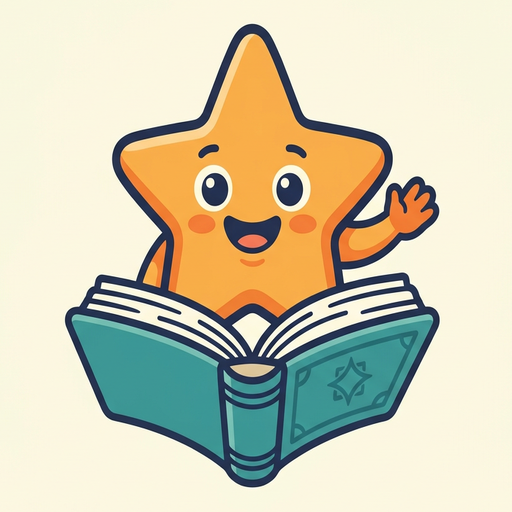
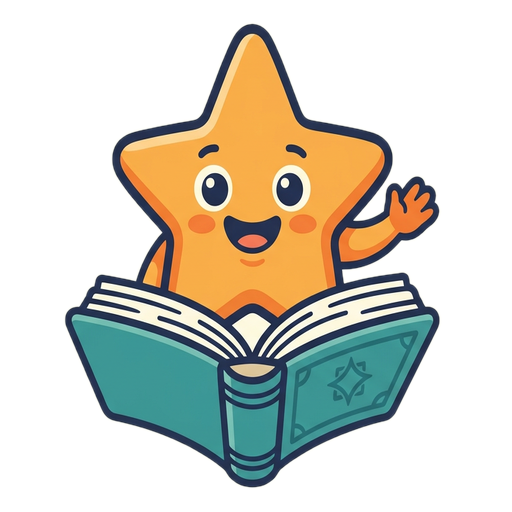
Fix Twinkle right-edge clipping + cream square background (owner live check 2026-11-07)\n\nTwo defects from the 19:06 PKT homepage live check of push 6a110b1e:\n\n1. RIGHT-EDGE CLIPPING: at right-edge anchors the mascot was partly cut off and the helper panel ran past the right edge (it read truncat

diff --git a/src/components/home/v0/HelperMascot.tsx b/src/components/home/v0/HelperMascot.tsx
@@ -1,6 +1,7 @@
 'use client'
 
 import { useEffect, useRef, useState } from 'react'
+import type { CSSProperties } from 'react'
 import { usePathname } from 'next/navigation'
 import Image from 'next/image'
 import Link from 'next/link'
@@ -13,24 +14,30 @@ import {
   MASCOT_WANDER_MS,
   isPlayPath,
   pickNextAnchor,
+  popupPlacement,
   type MascotAnchor,
 } from '@/lib/mascot'
 
 // Twinkle — EduPlay's helper star. The art is the ORIGINAL orange star
 // + teal book portrait (/eduplay-mascot.png, V0 ZIP #2 port, cropped to
 // 512×512) — the cute one the owner picked; the inline-SVG character
-// from the Twinkle upgrade looked odd and is gone.
+// from the Twinkle upgrade looked odd and is gone. The PNG's cream
+// background was cleaned to real transparency (2026-11-07), so the star
+// and book stand on ANY page colour with no square tile — no blend mode.
 // The mascot is FREE on the screen, not locked in a little circle: the
 // button is the picture itself (up to 128px, no border, no background,
-// no round frame — the cream background blends away with multiply, so
-// the star and book stand on the page). It ROAMS the whole screen —
-// top, middle and bottom on both edges — drifting slowly with a soft
-// bob, and it never covers buttons, game controls, the Start button,
-// or the right panel: the wrapper takes no pointer events, only the
-// mascot button itself is tappable, and on play pages it stays at the
-// bottom corners only. Tapping it opens the helper panel (quick actions
-// only — no chat backend, no personal data, never pretending to be a
-// human). The greeting is dismissible and remembered on this device only.
+// no round frame). It ROAMS the whole screen — top, middle and bottom
+// on both edges — drifting slowly with a soft bob, and it never covers
+// buttons, game controls, the Start button, or the right panel: the
+// wrapper takes no pointer events, only the mascot button itself is
+// tappable, and on play pages it stays at the bottom corners only.
+// The helper panel / greeting float above the button as absolutely
+// positioned popups that grow INWARD from the button's edge, so they
+// can never run past the viewport edge (right side opens to the left;
+// top anchors open below the button, where there is room). Tapping the
+// mascot opens the helper panel (quick actions only — no chat backend,
+// no personal data, never pretending to be a human). The greeting is
+// dismissible and remembered on this device only.
 const GREETING_KEY = 'eduplay-helper-greeted'
 
 export default function HelperMascot({ locale }: { locale: string }) {
@@ -86,17 +93,33 @@ export default function HelperMascot({ locale }: { locale: string }) {
     { label: 'How does EduPlay work?', href: '#how-it-works', Icon: CircleHelp },
   ] as const
 
+  // Where the helper panel / greeting opens: above the button, growing
+  // inward from the button's edge (right side opens to the left, so it
+  // can never run past the viewport's right edge); below the button at
+  // the top anchors, where there is no room above.
+  const placement = popupPlacement(anchor)
+  const popupPos: CSSProperties = {
+    position: 'absolute',
+    ...(placement.vertical === 'below'
+      ? { top: 'calc(100% + 0.75rem)' }
+      : { bottom: 'calc(100% + 0.75rem)' }),
+    ...(placement.horizontal === 'right' ? { right: 0 } : { left: 0 }),
+  }
+
   return (
+    // The wrapper is EXACTLY the button wide (up to 128px) — the panel /
+    // greeting are absolutely positioned popups, so they can never widen
+    // the wrapper and push the mascot (or themselves) past the viewport
+    // edge. Right anchors sit 9rem in, the button is at most 8rem wide,
+    // so the mascot's right edge is always ≥1rem inside the viewport.
     <div
       style={{
         position: 'fixed',
         left: anchor.left,
         top: anchor.top,
+        width: 'clamp(84px, 12vw, 128px)',
+        height: 'clamp(84px, 12vw, 128px)',
         zIndex: 40,
-        display: 'flex',
-        flexDirection: 'column',
-        alignItems: anchor.side === 'right' ? 'flex-end' : 'flex-start',
-        gap: '0.75rem',
         pointerEvents: 'none',
         transition: `left ${MASCOT_MOVE_MS}ms ease-in-out, top ${MASCOT_MOVE_MS}ms ease-in-out`,
       }}
@@ -105,7 +128,7 @@ export default function HelperMascot({ locale }: { locale: string }) {
         <div
           role="dialog"
           aria-label={`${MASCOT_NAME} — EduPlay's helper`}
-          style={{ width: 'min(20rem, calc(100vw - 2rem))', borderRadius: '1.5rem', border: '2px solid var(--color-border)', background: 'var(--color-surface)', padding: '1rem', boxShadow: '0 8px 0 0 var(--color-border)', color: 'var(--color-text-primary)', pointerEvents: 'auto' }}
+          style={{ ...popupPos, width: 'min(20rem, calc(100vw - 2rem))', borderRadius: '1.5rem', border: '2px solid var(--color-border)', background: 'var(--color-surface)', padding: '1rem', boxShadow: '0 8px 0 0 var(--color-border)', color: 'var(--color-text-primary)', pointerEvents: 'auto' }}
         >
           <div style={{ display: 'flex', alignItems: 'flex-start', justifyContent: 'space-between', gap: '0.5rem' }}>
             <p style={{ fontSize: '1.125rem', fontWeight: 600 }}>{MASCOT_NAME}</p>
@@ -142,7 +165,7 @@ export default function HelperMascot({ locale }: { locale: string }) {
       {showGreeting && !open && (
         <div
           role="status"
-          style={{ position: 'relative', display: 'flex', maxWidth: '16rem', alignItems: 'flex-start', gap: '0.25rem', borderRadius: '1.5rem', border: '2px solid var(--color-border)', background: 'var(--color-surface)', padding: '0.75rem 0.25rem 0.75rem 1rem', color: 'var(--color-text-primary)', boxShadow: '0 6px 0 0 var(--color-border)', pointerEvents: 'auto' }}
+          style={{ ...popupPos, width: 'min(16rem, calc(100vw - 2rem))', display: 'flex', alignItems: 'flex-start', gap: '0.25rem', borderRadius: '1.5rem', border: '2px solid var(--color-border)', background: 'var(--color-surface)', padding: '0.75rem 0.25rem 0.75rem 1rem', color: 'var(--color-text-primary)', boxShadow: '0 6px 0 0 var(--color-border)', pointerEvents: 'auto' }}
         >
           <p style={{ fontSize: '0.875rem', fontWeight: 600, lineHeight: 1.5 }}>
             Hi! I&apos;m {MASCOT_NAME} — EduPlay&apos;s helper. I can help you find a game or make one from a prompt.
@@ -167,9 +190,9 @@ export default function HelperMascot({ locale }: { locale: string }) {
         aria-expanded={open}
         aria-label={open ? `Close ${MASCOT_NAME} helper` : `Open ${MASCOT_NAME} helper`}
         className="eduplay-mascot-bob"
-        style={{ position: 'relative', width: 'clamp(84px, 12vw, 128px)', height: 'clamp(84px, 12vw, 128px)', border: 'none', background: 'transparent', boxShadow: 'none', cursor: 'pointer', padding: 0, pointerEvents: 'auto' }}
+        style={{ position: 'relative', width: '100%', height: '100%', border: 'none', background: 'transparent', boxShadow: 'none', cursor: 'pointer', padding: 0, pointerEvents: 'auto' }}
       >
-        <Image src="/eduplay-mascot.png" alt={`${MASCOT_NAME}, EduPlay's helper star`} width={512} height={512} style={{ width: '100%', height: '100%', objectFit: 'contain', mixBlendMode: 'multiply' }} />
+        <Image src="/eduplay-mascot.png" alt={`${MASCOT_NAME}, EduPlay's helper star`} width={512} height={512} style={{ width: '100%', height: '100%', objectFit: 'contain' }} />
       </button>
     </div>
   )

diff --git a/src/lib/mascot.ts b/src/lib/mascot.ts
@@ -9,13 +9,21 @@ export const MASCOT_NAME = 'Twinkle'
 // Roaming anchors: the mascot gently wanders the WHOLE screen — top,
 // middle and bottom on both edges — so kids see it walking around
 // everywhere, not locked in one corner. left/top are explicit (never
-// "auto") so the CSS transition animates the drift. The button is up
-// to 128px (8rem); the bottom anchors sit 6.5rem above the viewport
-// bottom so the fixed mobile play bar never covers it; the top anchors
-// sit 4.5rem down so the header never covers it. The centre of the
-// screen is deliberately NOT an anchor — that is where the game, the
-// Start button and the right panel live, and the mascot must never
-// cover them.
+// "auto") so the CSS transition animates the drift. The bottom anchors
+// sit 6.5rem above the viewport bottom so the fixed mobile play bar
+// never covers it; the top anchors sit 4.5rem down so the header never
+// covers it. The centre of the screen is deliberately NOT an anchor —
+// that is where the game, the Start button and the right panel live,
+// and the mascot must never cover them.
+// The mascot button is at most 8rem (128px) wide. Right-edge anchors sit
+// 9rem in from the viewport's right edge, so the button's right edge is
+// always at least 1rem inside the viewport — the mascot itself can never
+// be clipped, at any viewport width. The wrapper is exactly the button
+// wide (the helper panel / greeting float above it as absolutely
+// positioned popups), so nothing else can push the mascot out either.
+export const MASCOT_BUTTON_MAX_REM = 8
+export const MASCOT_EDGE_INSET_REM = 9
+
 export type MascotAnchor = {
   id: string
   left: string
@@ -24,13 +32,30 @@ export type MascotAnchor = {
 }
 
 export const MASCOT_ANCHORS: readonly MascotAnchor[] = [
-  { id: 'bottom-right', left: 'calc(100vw - 9rem)', top: 'calc(100dvh - 14.5rem)', side: 'right' },
-  { id: 'mid-right', left: 'calc(100vw - 9rem)', top: 'calc(50dvh - 4rem)', side: 'right' },
-  { id: 'top-right', left: 'calc(100vw - 9rem)', top: '4.5rem', side: 'right' },
+  { id: 'bottom-right', left: `calc(100vw - ${MASCOT_EDGE_INSET_REM}rem)`, top: 'calc(100dvh - 14.5rem)', side: 'right' },
+  { id: 'mid-right', left: `calc(100vw - ${MASCOT_EDGE_INSET_REM}rem)`, top: 'calc(50dvh - 4rem)', side: 'right' },
+  { id: 'top-right', left: `calc(100vw - ${MASCOT_EDGE_INSET_REM}rem)`, top: '4.5rem', side: 'right' },
   { id: 'top-left', left: '1rem', top: '4.5rem', side: 'left' },
   { id: 'mid-left', left: '1rem', top: 'calc(50dvh - 4rem)', side: 'left' },
   { id: 'bottom-left', left: '1rem', top: 'calc(100dvh - 14.5rem)', side: 'left' },
 ]
+
+// Where the helper panel / greeting opens relative to the button. The
+// popup grows INWARD from the button's edge — on the right side its
+// right edge lines up with the button's right edge (1rem inside the
+// viewport), so it can never run past the right edge; the left side
+// mirrors it. Vertically it opens above the button, except at the top
+// anchors where there is no room above — there it opens below.
+// (Live check 2026-11-07 19:06: the panel opened from a right-edge
+// anchor read truncated — "I am EduPlay's help…", "Find a ga…".)
+export type PopupPlacement = { vertical: 'above' | 'below'; horizontal: 'left' | 'right' }
+
+export function popupPlacement(anchor: MascotAnchor): PopupPlacement {
+  return {
+    vertical: anchor.id.startsWith('top') ? 'below' : 'above',
+    horizontal: anchor.side,
+  }
+}
 
 // During play the mascot stays at the bottom corners only — never near
 // the header/timer, never over the game area or the right panel.
